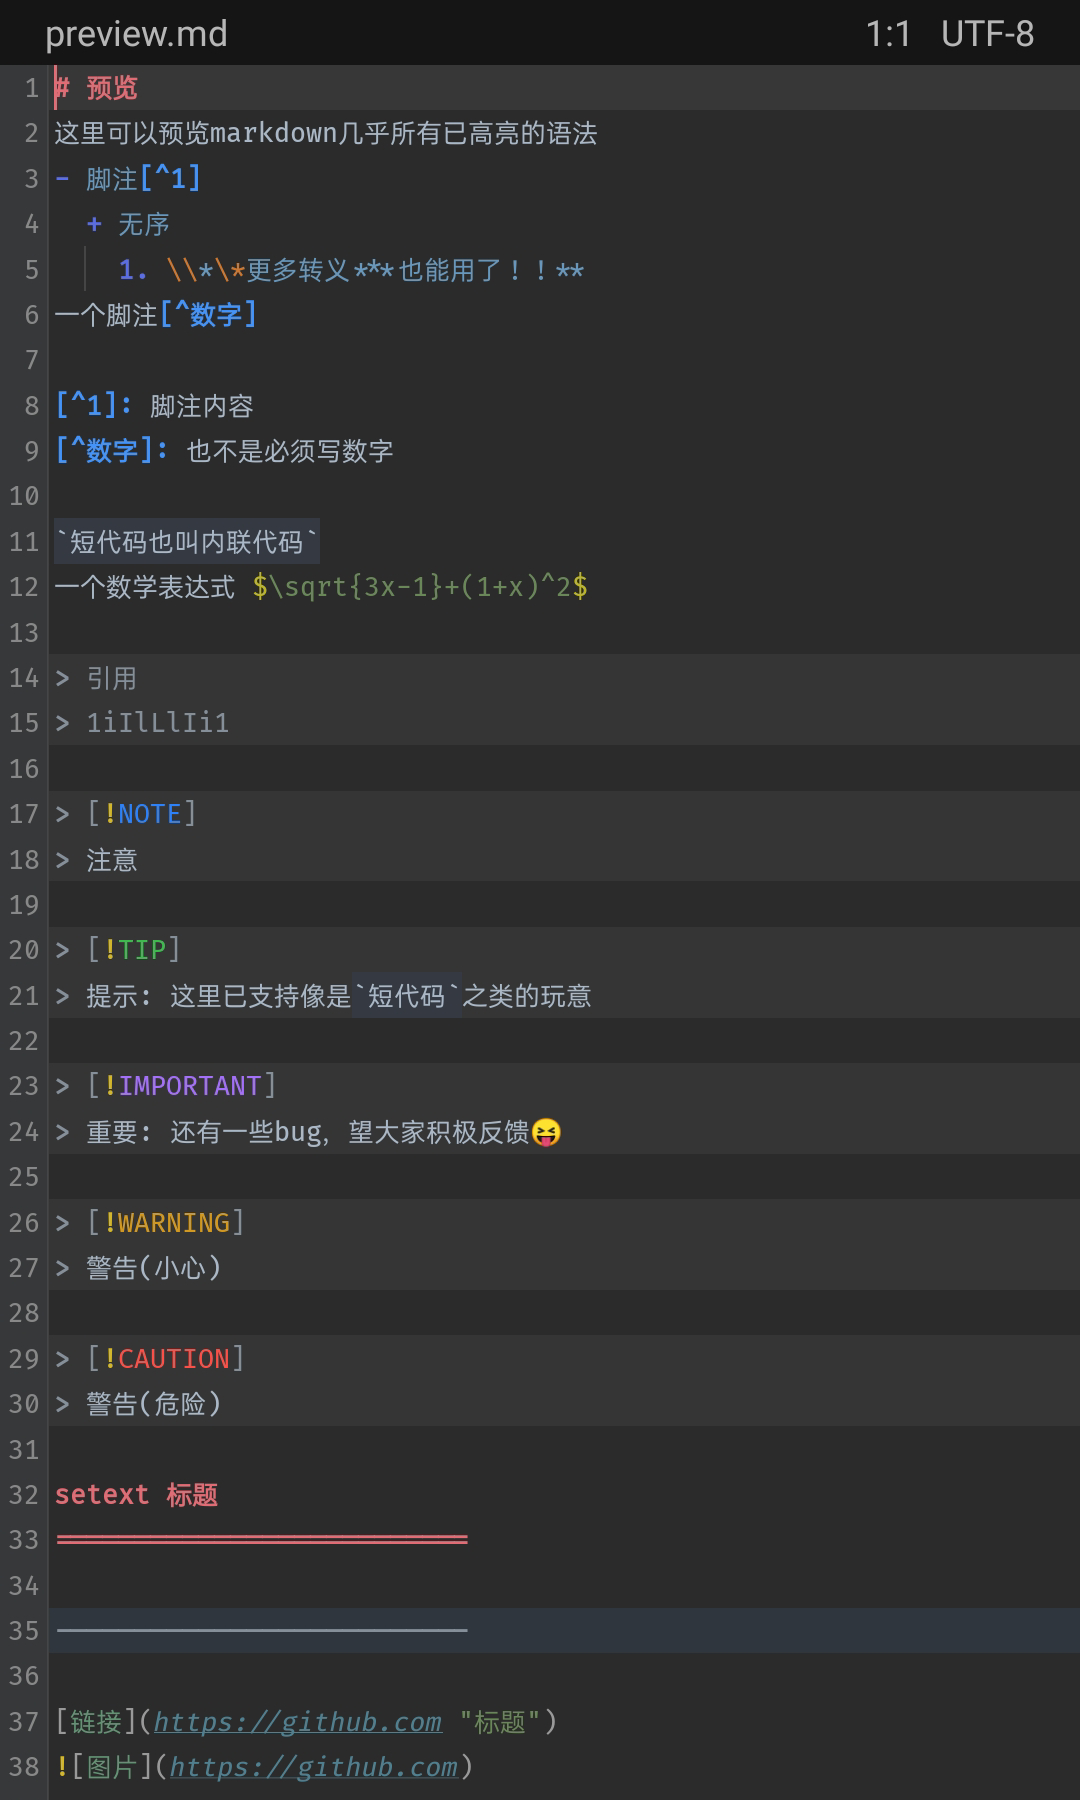
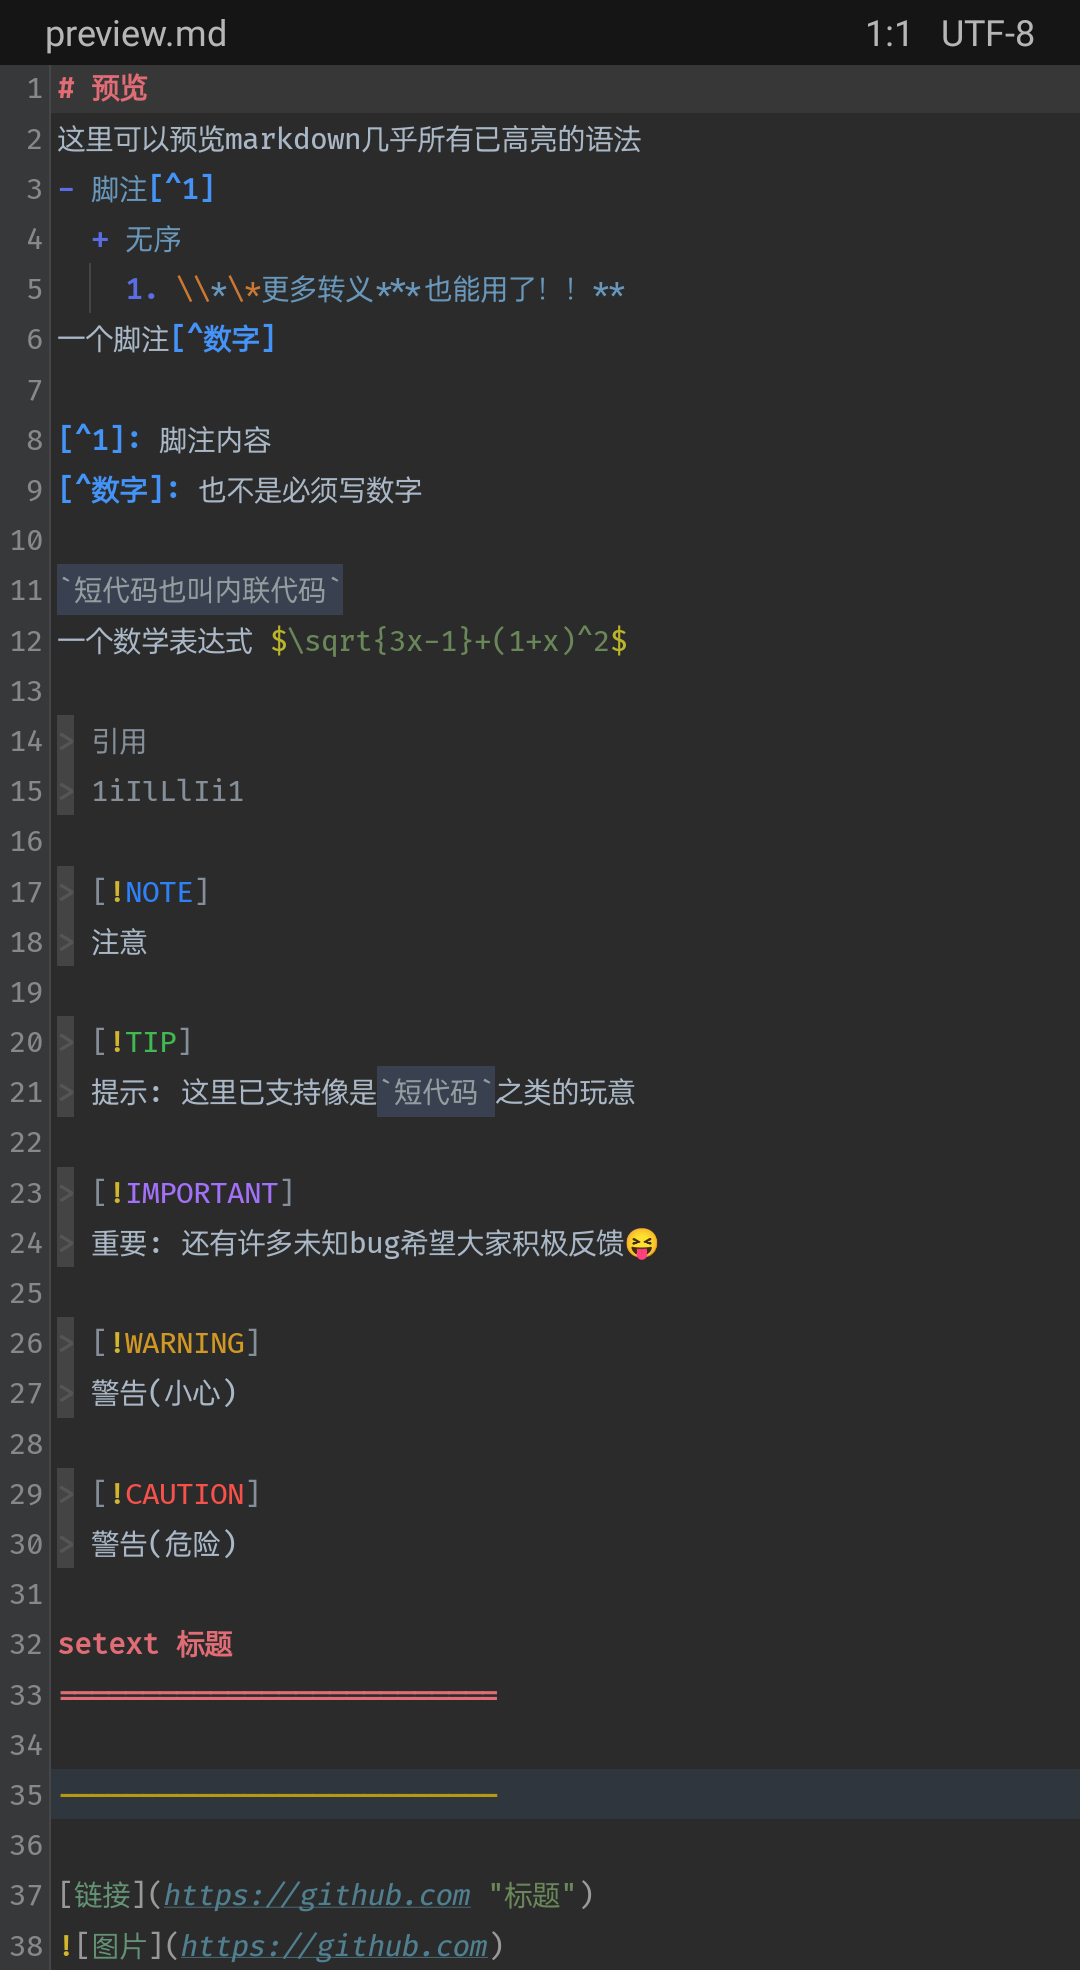
docs: 更新文档

Changed region(s): [[0.0, 0.0, 0.6111, 0.9956], [0.9167, 0.0, 0.9778, 0.0311], [0.5194, 0.1244, 0.5806, 0.1556]]

diff --git a/preview/markdown_github/preview.md b/preview/markdown_github/preview.md
@@ -49,7 +49,7 @@ setext 标题
 
 # 暂未实现的语法
 ### 计划实现
-html标签<sub>下标</sub><sup>上标</sup>
+
 
 ### 暂无计划
 * 非CommonMark语法特性
@@ -63,7 +63,7 @@ html标签<sub>下标</sub><sup>上标</sup>
 | 支持 | 语法 | 难度 | 备注 |
 | :---: | --- | --- | --- |
 | ✅ | 脚注 | ⭐ |
-| ✅ | 数学表达式 | ⭐⭐ | 多行暂未支持
+| 🚧 | 数学表达式 | ⭐⭐ | 多行暂未支持
 | ✅ | 缩进代码块 | ⭐⭐⭐⭐ | 仅基本渲染
 | ✅ | 警告块 | ⭐⭐⭐⭐⭐ | 还不够完美
 | ❌ | 表格 | ⭐⭐⭐⭐⭐⭐⭐ | 嵌套bug多
@@ -74,13 +74,19 @@ html标签<sub>下标</sub><sup>上标</sup>
 在2.16.0版本中，mt已经内置了markdown语法，我不打算继续更新（别问为什么，因为改用新语法相当于再次重构，我的精力有限，而且我很懒）除非有什么_~~奇迹~~_ 契机让我去更新，否则只能让其他贡献者来更新咯🤔
 
 # 测试数据
-- 2.0版本的测试数据：
+- 2.0版本：
 5k以下几乎无感知
 10k以上稍有感知
-25k明显卡顿感，打开用时约3秒渲染，大面积同步渲染(例如代码块)会导致性能问题，目前为_~~mt硬伤~~_ 我没优化匹配机制的问题，是我写的烂的硬伤……
-- 3.0版本的测试数据：
+25k明显卡顿感，打开用时约3秒渲染，大面积同步渲染(例如代码块)会导致性能问题，写的太烂了……
+- 3.0版本：
 10k以下直接打开
 20k左右几乎无感知
 35k左右打开速度相当于2.0版本20k左右，效率翻了1倍左右！
+- 3.3版本：
+15k以下直接打开
+20k左右几乎无感知
+40k左右打开速度相当于3.0版本30k左右，效率又翻了2倍左右！
+- 3.4版本：
+与3.3版本几乎相同，小文件提升约30%，大文件几乎没有太大变化
 
-这些数据可能不准确，根据设备性能和mt实际版本和适配优化会有所不同，故此数据仅供参考。
+这些数据可能不准确，根据设备性能、mt实际版本适配优化、语法嵌套和复杂度会有所不同，故此数据仅供参考。

diff --git a/mtsx/README.md b/mtsx/README.md
@@ -13,10 +13,12 @@
 > [!NOTE]
 > 内置语法是原本在MT管理器中已有语法的增强版。  
 > 在增强版中添加/修改了一些额外语法/配色。
+- [HTML EX (HTML+CSS+JS)](builtin/HTML.mtsx)
 - [JavaScript EX](builtin/JavaScript.mtsx)
 <!-- - [JavaScript Minecraft EX](builtin/JavaScript_Minecraft.mtsx) -->
 - [JSON Minecraft EX](builtin/JSON_Minecraft.mtsx)
 <!-- - [Markdown EX](builtin/Markdown.mtsx) -->
-- [MT Syntax EX](builtin/MT-Syntax.mtsx) (隐藏)
+- [MT Syntax EX](builtin/MT-Syntax.mtsx) (隐藏)[^隐藏]
 
 [^GFM]: [GitHub Flavored Markdown](https://github.github.com/gfm)（通常缩写为 GFM）是 Markdown 的方言。该正式规范基于 [CommonMark](https://commonmark.org) 规范，定义了该方言的语法和语义。
+[^隐藏]: 一些特殊的内置语法会被隐藏，使得无法在文件编辑器的语法列表中切换，它们的实现一般用户无需关注。

diff --git a/preview/README.md b/preview/README.md
@@ -39,6 +39,13 @@
 </details>
 
 <details>
+<summary>HTML EX (内置)</summary>
+
+![亮色](builtin/html/light.webp)
+![暗色](builtin/html/dark.webp)
+</details>
+
+<details>
 <summary>JavaScript EX (内置)</summary>
 
 ![亮色](builtin/javascript/light.webp)
